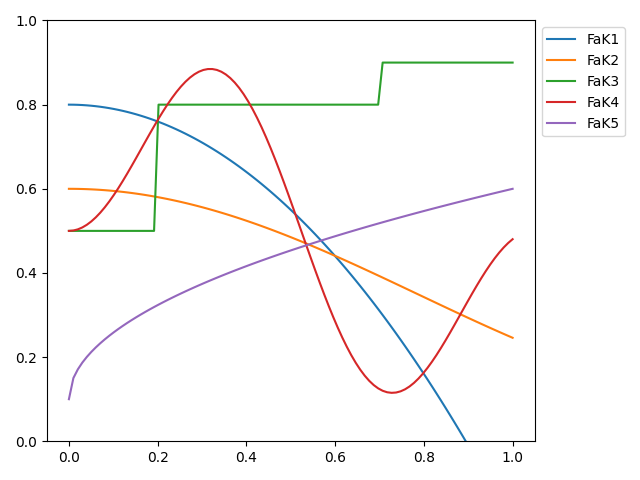
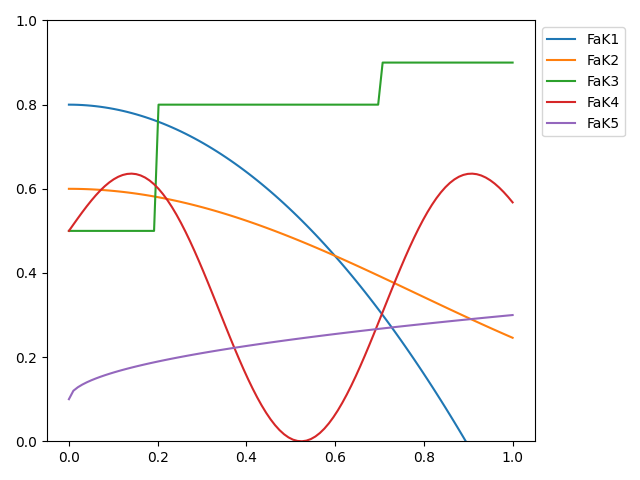
prod

diff --git a/lab_ui.py b/lab_ui.py
@@ -1,4 +1,3 @@
-
 from PyQt5 import QtCore, QtGui, QtWidgets
 from PyQt5.QtGui import QPixmap
 from PyQt5.QtWidgets import QMainWindow, QLabel, QVBoxLayout, QWidget
@@ -7,11 +6,10 @@ import service as s
 
 
 class AnotherWindow(QMainWindow):
-
     urla = ''
 
     def __init__(self, parent=None, url=None):
-        super(AnotherWindow,self).__init__(parent)
+        super(AnotherWindow, self).__init__(parent)
         self.acceptDrops()
         self.urla = url
         self.setWindowTitle("Image")
@@ -21,10 +19,6 @@ class AnotherWindow(QMainWindow):
         self.label.setPixmap(self.pixmap)
         self.label.resize(self.pixmap.width(),
                           self.pixmap.height())
-
-
-
-
 
 
 class Ui_MainWindow(object):
@@ -38,7 +32,9 @@ class Ui_MainWindow(object):
         MainWindow.resize(800, 609)
         self.centralwidget = QtWidgets.QWidget(MainWindow)
         self.centralwidget.setObjectName("centralwidget")
+
         self.label = QtWidgets.QLabel(self.centralwidget)
+
         self.label.setGeometry(QtCore.QRect(10, 10, 171, 16))
         self.label.setObjectName("label")
         self.label_2 = QtWidgets.QLabel(self.centralwidget)
@@ -244,31 +240,31 @@ class Ui_MainWindow(object):
         self.line_2.setFrameShadow(QtWidgets.QFrame.Sunken)
         self.line_2.setObjectName("line_2")
 
-        self.comboBox = QtWidgets.QDoubleSpinBox(self.centralwidget)
+        self.comboBox = QtWidgets.QSpinBox(self.centralwidget)
         self.comboBox.setMinimum(0)
         self.comboBox.setMaximum(1000)
         self.comboBox.setGeometry(QtCore.QRect(250, 60, 104, 26))
         self.comboBox.setObjectName("comboBox")
 
-        self.comboBox_2 = QtWidgets.QDoubleSpinBox(self.centralwidget)
+        self.comboBox_2 = QtWidgets.QSpinBox(self.centralwidget)
         self.comboBox_2.setGeometry(QtCore.QRect(250, 90, 104, 26))
         self.comboBox_2.setObjectName("comboBox_2")
         self.comboBox_2.setMinimum(0)
         self.comboBox_2.setMaximum(1000)
 
-        self.comboBox_3 = QtWidgets.QDoubleSpinBox(self.centralwidget)
+        self.comboBox_3 = QtWidgets.QSpinBox(self.centralwidget)
         self.comboBox_3.setGeometry(QtCore.QRect(250, 120, 104, 26))
         self.comboBox_3.setObjectName("comboBox_3")
         self.comboBox_3.setMinimum(0)
         self.comboBox_3.setMaximum(1000)
 
-        self.comboBox_4 = QtWidgets.QDoubleSpinBox(self.centralwidget)
+        self.comboBox_4 = QtWidgets.QSpinBox(self.centralwidget)
         self.comboBox_4.setGeometry(QtCore.QRect(250, 150, 104, 26))
         self.comboBox_4.setObjectName("comboBox_4")
         self.comboBox_4.setMinimum(0)
         self.comboBox_4.setMaximum(1000)
 
-        self.comboBox_5 = QtWidgets.QDoubleSpinBox(self.centralwidget)
+        self.comboBox_5 = QtWidgets.QSpinBox(self.centralwidget)
         self.comboBox_5.setGeometry(QtCore.QRect(250, 180, 104, 26))
         self.comboBox_5.setObjectName("comboBox_5")
         self.comboBox_5.setMinimum(0)
@@ -277,6 +273,27 @@ class Ui_MainWindow(object):
         self.label_29 = QtWidgets.QLabel(self.centralwidget)
         self.label_29.setGeometry(QtCore.QRect(350, 60, 16, 21))
         self.label_29.setObjectName("label_29")
+
+        self.label_F1 = QtWidgets.QLabel(self.centralwidget)
+        self.label_F1.setGeometry(QtCore.QRect(240, 60, 20, 20))
+        self.label_F1.setObjectName("labelF1")
+
+        self.label_F2 = QtWidgets.QLabel(self.centralwidget)
+        self.label_F2.setGeometry(QtCore.QRect(240, 90, 20, 20))
+        self.label_F2.setObjectName("labelF2")
+
+        self.label_F3 = QtWidgets.QLabel(self.centralwidget)
+        self.label_F3.setGeometry(QtCore.QRect(240, 120, 20, 20))
+        self.label_F3.setObjectName("labelF3")
+
+        self.label_F5 = QtWidgets.QLabel(self.centralwidget)
+        self.label_F5.setGeometry(QtCore.QRect(240, 150, 20, 20))
+        self.label_F5.setObjectName("labelF5")
+
+        self.label_F4 = QtWidgets.QLabel(self.centralwidget)
+        self.label_F4.setGeometry(QtCore.QRect(240, 180, 20, 20))
+        self.label_F4.setObjectName("labelF4")
+
         self.label_30 = QtWidgets.QLabel(self.centralwidget)
         self.label_30.setGeometry(QtCore.QRect(350, 90, 16, 21))
         self.label_30.setObjectName("label_30")
@@ -289,6 +306,7 @@ class Ui_MainWindow(object):
         self.label_33 = QtWidgets.QLabel(self.centralwidget)
         self.label_33.setGeometry(QtCore.QRect(350, 180, 16, 21))
         self.label_33.setObjectName("label_33")
+
         self.doubleSpinBox_28 = QtWidgets.QDoubleSpinBox(self.centralwidget)
         self.doubleSpinBox_28.setGeometry(QtCore.QRect(360, 60, 51, 21))
         self.doubleSpinBox_28.setObjectName("doubleSpinBox_28")
@@ -434,7 +452,7 @@ class Ui_MainWindow(object):
         self.label_55.setGeometry(QtCore.QRect(420, 180, 16, 21))
         self.label_55.setObjectName("label_55")
         self.label_56 = QtWidgets.QLabel(self.centralwidget)
-        self.label_56.setGeometry(QtCore.QRect(360, 30, 331, 16))
+        self.label_56.setGeometry(QtCore.QRect(260, 30, 400, 16))
         self.label_56.setObjectName("label_56")
         MainWindow.setCentralWidget(self.centralwidget)
         self.menubar = QtWidgets.QMenuBar(MainWindow)
@@ -482,6 +500,12 @@ class Ui_MainWindow(object):
         self.label_27.setText(_translate("MainWindow", "u44 - Против настроек"))
         self.label_28.setText(_translate("MainWindow", "Уравнения"))
         self.label_29.setText(_translate("MainWindow", "="))
+        self.label_F1.setText('F')
+        self.label_F2.setText('F')
+        self.label_F3.setText('F')
+        self.label_F4.setText('F')
+        self.label_F5.setText('F')
+
         self.label_30.setText(_translate("MainWindow", "="))
         self.label_31.setText(_translate("MainWindow", "="))
         self.label_32.setText(_translate("MainWindow", "="))
@@ -520,10 +544,14 @@ class Ui_MainWindow(object):
         for i, value in enumerate(s.chars.start_values):
             # print(i,value)
             self.inputs[i].setValue(value)
-        self.label_56.setText("F = [0 : " + str(self.back.chars.func_m.__len__()) + " ]")
+        self.label_56.setText(
+            "F = [0 : " + str(self.back.chars.func_m.__len__()) + "]           d          +     c       *X  +  "
+                                                                  "  b         *X^2 +     a        "
+                                                                  "*X^3")
 
     res = None
     dialogs = list()
+
     def calc(self):
         Q1 = self.comboBox.value()
         Q2 = self.comboBox_2.value()
@@ -565,22 +593,26 @@ class Ui_MainWindow(object):
         values = [n.value() for n in self.inputs]
 
         self.res = s.chars.calculate(values)
-        s.chars.get_diag(self.doubleSpinBox_41.value())
+        s.chars.get_diag(self.doubleSpinBox_41.value(), 'diag.png')
+        s.chars.get_diag(0.0, 'diag0.png')
         s.chars.get_graphics()
         s.get_faks_image()
 
     def show_diag(self):
-        win = AnotherWindow(self.centralwidget,'diag.png')
+        win = AnotherWindow(self.centralwidget, 'diag.png')
         self.dialogs.append(win)
         win.show()
+        win2 = AnotherWindow(self.centralwidget, 'diag0.png')
+        self.dialogs.append(win)
+        win2.show()
 
     def show_fak(self):
-        win = AnotherWindow(self.centralwidget,'fak.png')
+        win = AnotherWindow(self.centralwidget, 'fak.png')
         self.dialogs.append(win)
         win.show()
 
     def show_funcs(self):
-        win = AnotherWindow(self.centralwidget,'funcs.png')
+        win = AnotherWindow(self.centralwidget, 'funcs.png')
         self.dialogs.append(win)
         win.show()
 
@@ -593,6 +625,7 @@ class Ui_MainWindow(object):
 
 if __name__ == "__main__":
     import sys
+
     app = QtWidgets.QApplication(sys.argv)
     MainWindow = QtWidgets.QMainWindow()
     ui = Ui_MainWindow()

diff --git a/service.py b/service.py
@@ -101,7 +101,7 @@ class CharacteristicFromExcel:
         # рисуем график
         legend_labels = []
         for char in self.chars:
-            plt.plot(t, self.res[char.label], linewidth=3)
+            plt.plot(t, self.res[char.label], linewidth=2)
             legend_labels.append(char.label)
         plt.xlim([0, 1])
         plt.ylim([0, 1])
@@ -110,7 +110,7 @@ class CharacteristicFromExcel:
         fig.tight_layout()
         fig.savefig('funcs.png')
 
-    def get_diag(self, t):
+    def get_diag(self, t,filename):
         labels = list(self.res.keys())
 
         t_110 = np.linspace(0, 1, 110)
@@ -120,12 +120,12 @@ class CharacteristicFromExcel:
                 break
             res_index = i
         stats = [i[res_index] for i in self.res.values()]
-        make_radar_chart('T=' + str(t), stats, labels)
+        make_radar_chart('T=' + str(t),filename, stats, labels)
 
 
 
 
-def make_radar_chart(name, stats, attribute_labels, plot_markers=[0, 0.2, 0.4, 0.6, 0.8, 1],
+def make_radar_chart(name, filename, stats, attribute_labels, plot_markers=[0, 0.2, 0.4, 0.6, 0.8, 1],
                      plot_str_markers=["0", "0.2", "0.4", "0.6", "0.8", "1"]):
     labels = np.array(attribute_labels)
 
@@ -142,25 +142,9 @@ def make_radar_chart(name, stats, attribute_labels, plot_markers=[0, 0.2, 0.4, 0
     ax.set_title(name)
     ax.grid(True)
     plt.tight_layout
-    fig.savefig("diag.png")
+    fig.savefig(filename)
 
     return plt.show()
-
-
-# def f4(t, k):
-#     return float(k[3]) * t ** 3 + k[2] * t ** 2 + float(k[1]) * t + float(k[0])
-#
-#
-# def f10(t, k):
-#     return float(k[3]) * t ** 3 + k[2] * t ** 2 + float(k[1]) * t + float(k[0])
-#
-#
-# def f37(t, k):
-#     return float(k[3]) * t ** 3 + k[2] * t ** 2 + float(k[1]) * t + float(k[0])
-#
-#
-# def f78(t, k):
-#     return float(k[3]) * t ** 3 + k[2] * t ** 2 + float(k[1]) * t + float(k[0])
 
 
 def Q_tempalte(t, k):
@@ -185,11 +169,11 @@ def fak3(t):
 
 
 def fak4(t):
-    return np.sin(6 * t) * np.sin(3 * t) * 0.5 + 0.5
+    return np.cos(6 * t) * np.sin(3 * t) * 0.5 + 0.5
 
 
 def fak5(t):
-    return np.sqrt(t) * 0.5 + 0.1
+    return np.sqrt(t) * 0.2 + 0.1
 
 
 excel_file_path = 'tableKush.xlsx'
